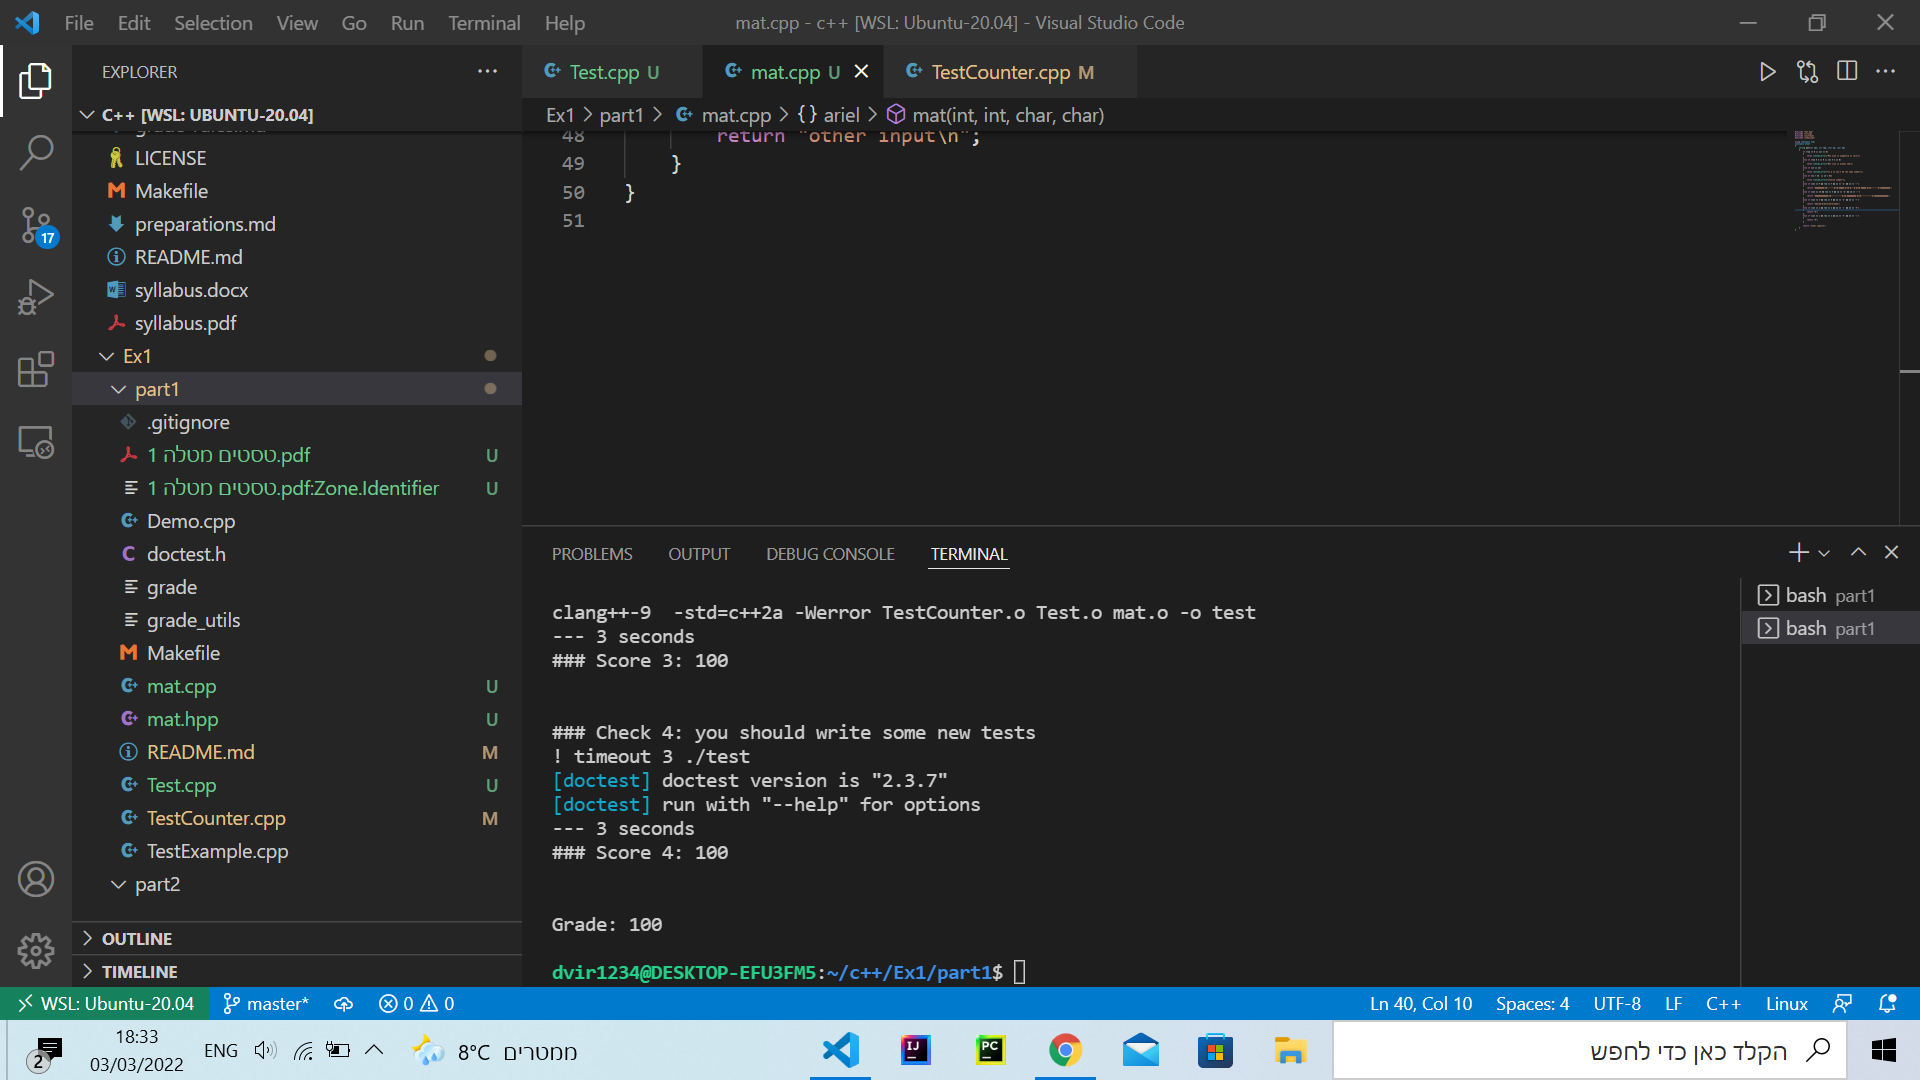
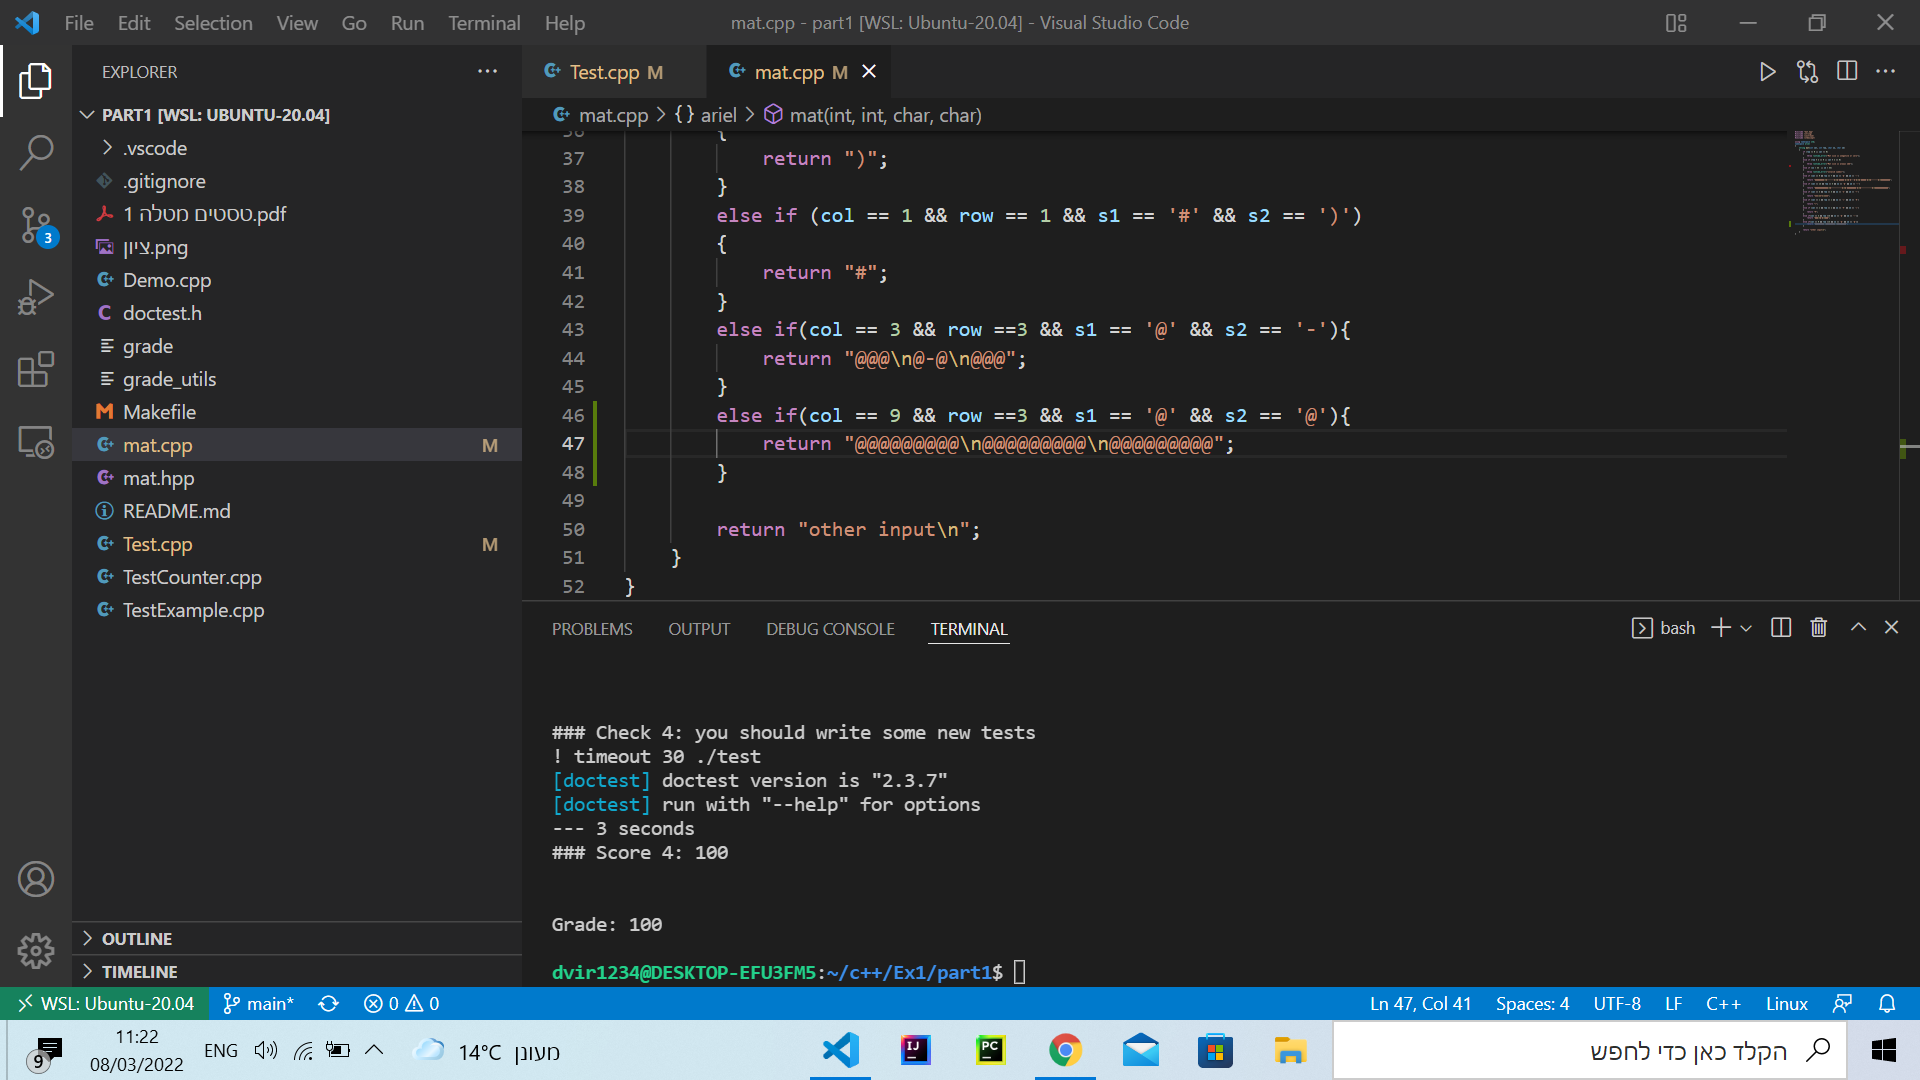
repair test

diff --git a/Test.cpp b/Test.cpp
@@ -37,6 +37,7 @@ TEST_CASE("Good input")
     CHECK(nospaces(mat(3, 3, '$', '+')) == nospaces("$$$\n$+$\n$$$"));
     CHECK(nospaces(mat(1, 1, '#', ')')) == nospaces("#"));
     CHECK(nospaces(mat(1, 1, ')', '#')) == nospaces(")"));
+    CHECK(nospaces(mat(9, 3, '@', '@')) == nospaces("@@@@@@@@@\n@@@@@@@@@\n@@@@@@@@@"));
 }
 // Mat can't be zero
 TEST_CASE("Zero input")
@@ -75,11 +76,7 @@ TEST_CASE("Real symbol input")
     CHECK_THROWS(mat(1, 3, '\r', '-'));
     CHECK_THROWS(mat(1, 3, '\r', '\r'));
 }
-//Symbol 1 can't be same as symbol 2
-TEST_CASE("Same symbol")
-{
-    CHECK_THROWS(mat(2, 3, '@', '@'));
-}
+//the mat is not palindrom mat
 TEST_CASE("palindrom mat")
 {
     string palindrom = nospaces(mat(3, 3, '@', '-'));

diff --git a/mat.cpp b/mat.cpp
@@ -16,10 +16,6 @@ namespace ariel
         {
             throw runtime_error("Mat size is always odd");
         }
-        else if (s1 == s2)
-        {
-            throw runtime_error("s1 & s2 can't be the same symbol");
-        }
         else if (s1 < 33  || s2 < 33)
         {
             throw runtime_error("unvalid symbol");
@@ -46,6 +42,9 @@ namespace ariel
         }
         else if(col == 3 && row ==3 && s1 == '@' && s2 == '-'){
             return "@@@\n@-@\n@@@";
+        }
+        else if(col == 9 && row ==3 && s1 == '@' && s2 == '@'){
+            return "@@@@@@@@@\n@@@@@@@@@\n@@@@@@@@@";
         }
 
         return "other input\n";
